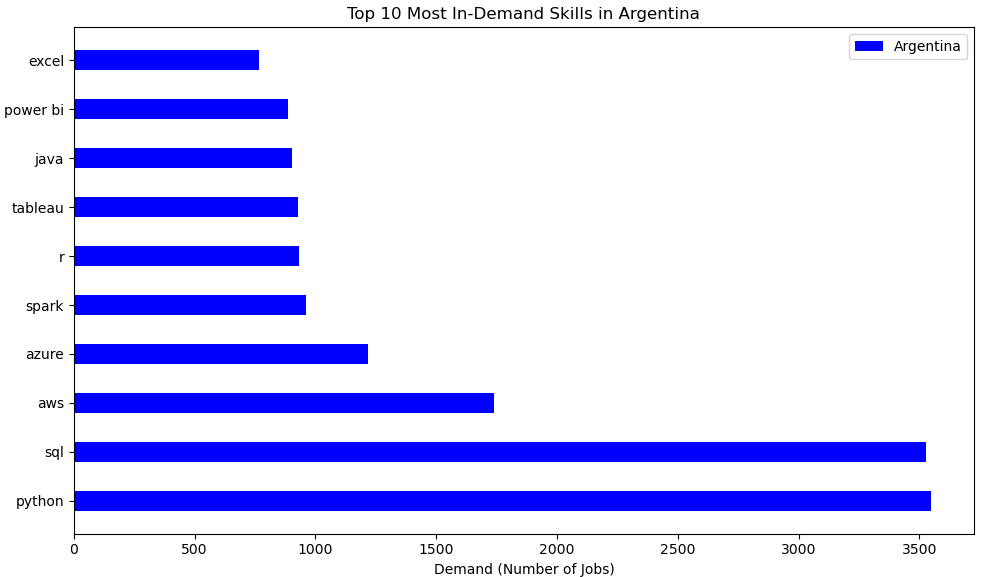
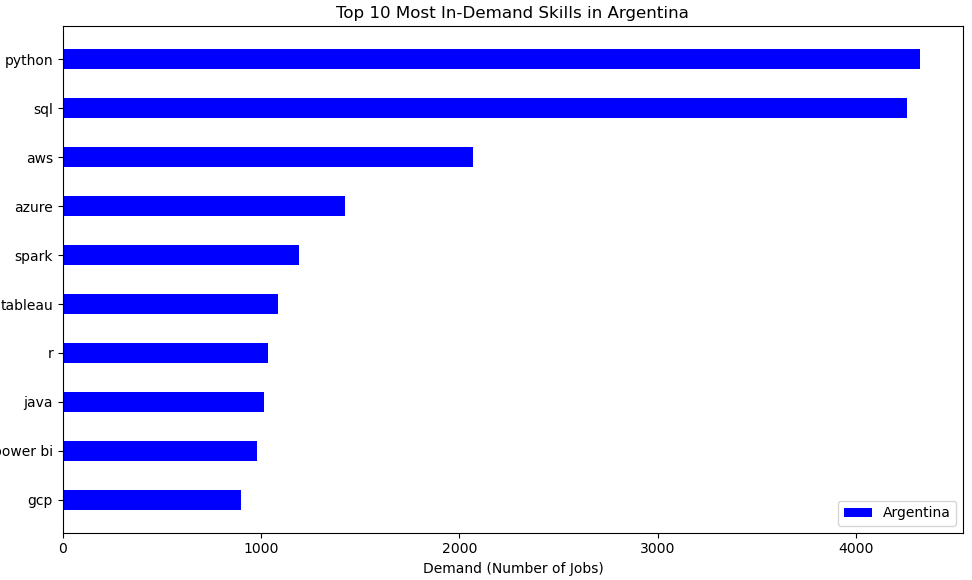
final commit1 V2

diff --git a/python/2_skills_analysis.py b/python/2_skills_analysis.py
@@ -5,7 +5,8 @@ import numpy as np
 # Top 10 Most In-Demand Skills in Argentina
 df_argentina = pd.read_csv(r'csv_files\top_demand_skills_Argentina.csv')
 
-x_argentina = np.arange(len(df_argentina))  
+x_argentina = np.arange(len(df_argentina))
+df_argentina.sort_values(by="demand", ascending=True, inplace=True)  
 
 fig, ax = plt.subplots(figsize=(10, 6))
 ax.barh(x_argentina, df_argentina['demand'], 0.4, label='Argentina', color='blue')
@@ -22,6 +23,7 @@ plt.show()
 df_worldwide = pd.read_csv(r'csv_files\top_demand_skills_worldwide.csv')
 
 x_worldwide = np.arange(len(df_worldwide))  
+df_worldwide.sort_values(by="demand", ascending=True, inplace=True)
 
 fig, ax = plt.subplots(figsize=(10, 6))
 ax.barh(x_worldwide, df_worldwide['demand'], 0.4, label='Worldwide', color='green')

diff --git a/python/1_top_paying_job_skills.py b/python/1_top_paying_job_skills.py
@@ -1,0 +1,20 @@
+import pandas as pd
+import matplotlib.pyplot as plt
+import numpy as np
+
+# Top 10 Most In-Demand Skills for the Best-Paying Jobs in Argentina
+df_demand_skills = pd.read_csv(r'csv_files\skills_demand_count_top_jobs.csv')
+
+x_demand_skills = np.arange(len(df_demand_skills))  
+df_demand_skills.sort_values(by="skills_demand_count", ascending=True, inplace=True)
+fig, ax = plt.subplots(figsize=(10, 6))
+ax.barh(x_demand_skills, df_demand_skills['skills_demand_count'], 0.4, label='Skills', color='blue')
+ax.set_xlabel('Demand (Number of Jobs)')
+ax.set_title('Top 10 Most In-Demand Skills for the Best-Paying Jobs in Argentina')
+ax.set_yticks(x_demand_skills)
+ax.set_yticklabels(df_demand_skills['skills'])
+ax.legend()
+
+
+plt.tight_layout()
+plt.show()

diff --git a/README.md b/README.md
@@ -1,5 +1,5 @@
 # Introduction
-Using a dataset with job market data focused on the IT sector, this project explores the highest-paying jobs, the most in-demand skills in the Argentine market, and compares them with global trends to assess whether the local market is up to date. Additionally, It analyzes the highest-paying skills in Argentina and which are the optimal skills in terms of demand and average salary.
+Using a dataset with job market data focused on the IT sector, this project explores the highest-paying jobs, the most in-demand skills available in the Argentine market, and compares them with global trends to assess whether the local market is up to date. Additionally, It analyzes the highest-paying skills in Argentina and which companies offer the most job opportunities in Argentina.
 
 You can check the SQL queries right here: [project_SQL folder](/project_SQL/)
 
@@ -11,7 +11,7 @@ The idea for this project comes from the need to understand the most in-demand s
 2. What skills are required for those top-paying jobs?  
 3. What skills are most in demand in Argentina, and how do they compare globally?  
 4. Which skills are associated with higher salaries?  
-5. What are the most optimal skills to learn based on demand and salary?  
+5. Which companies have the highest number of job openings in Argentina? 
 
 # Tools Used in This Project  
 
@@ -26,59 +26,65 @@ For the analysis of this data, I used several tools:
 Each query of this project answer a question to make my decision, there is how I approched each quest
 
 ### 1. What are the top-paying jobs in Argentina?
-This query retrieves the top 10 highest-paying job postings in Argentina. It selects key job details such as job ID, title, company name, location, schedule type, average annual salary, and posting date. The data is sourced from the ```job_postings_fact``` table, with company names retrieved via a **LEFT JOIN** with the ```company_dim``` table. The results are filtered to include only jobs with a non-null salary and are sorted in descending order based on salary.
+This query retrieves the top 10 highest-paying job postings in Argentina. It selects key job details such as title, company name, location and average annual salary. The data is sourced from the `job_postings_fact` table, with company names retrieved via a **LEFT JOIN** with the `company_dim` table. The results are filtered to include only jobs with a non-null salary and are sorted in descending order based on salary.
 
 ```sql
 SELECT 
-  job_postings_fact.job_id,
   job_postings_fact.job_title,
   company_dim.name AS company,
   job_postings_fact.job_location,
-  job_postings_fact.job_schedule_type,
-  job_postings_fact.salary_year_avg,
-  job_postings_fact.job_posted_date
+  job_postings_fact.salary_year_avg
 FROM job_postings_fact
 LEFT JOIN company_dim ON job_postings_fact.company_id = company_dim.company_id
 WHERE
     salary_year_avg IS NOT NULL
-    AND job_location LIKE('%Argentina%')
+    AND job_country = 'Argentina'
 ORDER BY
     salary_year_avg DESC
 LIMIT 10
+
 ```
+| Job Title                                    | Company         | Job Location                                     | Salary (Yearly) |
+|----------------------------------------------|----------------|-------------------------------------------------|----------------|
+| Director of Engineering, ML Platform        | MongoDB        | Anywhere                                       | 222000.0       |
+| Staff Data Scientist                        | MongoDB        | Anywhere                                       | 207500.0       |
+| Staff Engineer, Service Architecture        | MongoDB        | Anywhere                                       | 197500.0       |
+| Cloud Operations Engineer (3rd Shift, FedRamp) | MongoDB     | Anywhere                                       | 182500.0       |
+| Data Scientist, Growth                      | Near           | Anywhere                                       | 157000.0       |
+| Senior Data Engineer                        | MediaLab       | Argentina                                      | 147500.0       |
+| Data Engineer                               | Dialpad        | Buenos Aires, Argentina                        | 147500.0       |
+| [VMB] Senior Data Engineer                  | Software Mind  | Buenos Aires, Argentina                        | 147500.0       |
+| LAS Seeds Data Engineer                     | Syngenta Group | Vicente López, Buenos Aires Province, Argentina | 134241.0       |
+| Data Scientist Manager                      | Visa           | Buenos Aires, Argentina                        | 132500.0       |
+
 The conclusions we can draw from this query are:
-
-- **Wide Salary Range**: The highest paying jobs range from $147,500 to $98,283.
-- **Diverse Employers**: The results show 9 different companies offering high-paying jobs, indicating strong competition.
-- **Job Title Dominance**: All of the high-paying roles are in the data field, showing its dominance over other IT areas.
-
-![Top Paying Jobs](assets/top_paying_jobs.png)
-*Bar Graph Visualizing the top 10 salaries in Argentina*
+- **Wide Salary Range**: The highest paying jobs range from $222,000 to $132500 per year.
+- **Diverse Employers**: The results show 7 different companies offering high-paying jobs, indicating strong competition.
+- **Job Title Dominance**: The majority of these high-paying roles are in data-related positions (Data Scientist, Data Engineer, etc.), highlighting the strong demand for data professionals over other IT fields.
 
 ### 2. What skills are required for those top-paying jobs?
 
-The CTE (Common Table Expression) ```top_jobs``` retrieves the top 10 highest paying jobs in Argentina. The main query then retrieves the skills associated with those 10 jobs. Using an **INNER JOIN** between the tables ```skills_job_dim```, ```top_jobs```, and ```skills_dim```, I obtained the skills associated with each job, and then I filtered the results to only include those in Argentina.
+The CTE (Common Table Expression) `top_jobs` retrieves the top 10 highest paying jobs in Argentina. The main query then retrieves the skills associated with those 10 jobs. Using an **INNER JOIN** between the tables `skills_job_dim`, `top_jobs`, and `skills_dim`, I obtained the skills associated with each job, and then I filtered the results to only include those in Argentina.
+The second query is an auxiliary query used to generate a CSV file for creating a bar chart of the most in-demand skills.
 
 ```sql
 WITH top_jobs AS(
     SELECT 
-        job_postings_fact.job_id,
-        job_postings_fact.job_title,
-        company_dim.name AS company,
-        job_postings_fact.job_location,
-        job_postings_fact.job_schedule_type,
-        job_postings_fact.salary_year_avg,
-        job_postings_fact.job_posted_date
+    job_postings_fact.job_id,
+    job_postings_fact.job_title,
+    company_dim.name AS company,
+    job_postings_fact.job_location,
+    job_postings_fact.salary_year_avg
     FROM job_postings_fact
     LEFT JOIN company_dim ON job_postings_fact.company_id = company_dim.company_id
     WHERE
         salary_year_avg IS NOT NULL
-        AND job_location LIKE('%Argentina%')
+        AND job_country = 'Argentina'
     ORDER BY
         salary_year_avg DESC
     LIMIT 10
 )
-SELECT 
+SELECT
     top_jobs.*,
     skills_dim.skills
 FROM top_jobs
@@ -86,13 +92,33 @@ INNER JOIN skills_job_dim ON top_jobs.job_id = skills_job_dim.job_id
 INNER JOIN skills_dim ON skills_job_dim.skill_id = skills_dim.skill_id
 ORDER BY
     top_jobs.salary_year_avg DESC
+--Auxiliary query
+SELECT
+    COUNT(skills_dim.skill_id) as skills_demand_count,
+    skills_dim.skills
+FROM top_jobs
+INNER JOIN skills_job_dim ON top_jobs.job_id = skills_job_dim.job_id 
+INNER JOIN skills_dim ON skills_job_dim.skill_id = skills_dim.skill_id
+GROUP BY
+    skills_dim.skills
+ORDER BY
+    skills_demand_count DESC
+LIMIT 10
+
 ```
+
+![Top Most In-Demand Skills for the Best-Payings Jobs In Argentina](assets/top_payings_job_skills.png)
+*Bar Graph Visualizing the Top 10 Most In-Demand Skills for the Best-Payings Jobs In Argentina*
+
 The conclusions we can draw from this query are:
-- The skills observed in the results include SQL, Excel, Tableau, Python, R, Linux, and others. The majority of these are tools or skills used by Data Analysts, Data Scientists, Machine Learning professionals, and all jobs related to the Data field. This makes sense, as we found that the top-paying jobs are all in the Data Area.
+- **Python and MongoDB** are the most in-demand skills, required in 8 out of the 10 top-paying jobs.
+- **GCP, Java, and Spark** follow closely, each appearing in 4 job postings.
+- **Scala, Kubernetes, SQL, and AWS** are required in 3 jobs each.
+- **Databricks** is the least common among the top 10, appearing in only 2 job postings.
 
 ### 3. What skills are most in demand in Argentina, and how do they compare globally?
 
-With this query, we will obtain the top 10 most in-demand skills for jobs in Argentina. Using an **INNER JOIN** between the tables ```skills_job_dim```, ```skills_job_dim```, and ```skills_dim```, we retrieve the skills associated with each job, then sort them by demand.
+With this query, we will obtain the top 10 most in-demand skills for jobs in Argentina. Using an **INNER JOIN** between the tables `skills_job_dim`, `skills_job_dim`, and `skills_dim`, we retrieve the skills associated with each job, then sort them by demand.
 
 ```sql
 SELECT 
@@ -102,7 +128,7 @@ FROM job_postings_fact
 INNER JOIN skills_job_dim ON skills_job_dim.job_id = job_postings_fact.job_id
 INNER JOIN skills_dim ON skills_job_dim.skill_id = skills_dim.skill_id
 WHERE
-    job_location LIKE('%Argentina%')
+    job_country ='Argentina'
 GROUP BY
     skills
 ORDER BY
@@ -115,7 +141,6 @@ SELECT
     skills_dim.skills,
     COUNT(job_postings_fact.job_id) as demand
 FROM job_postings_fact
-
 INNER JOIN skills_job_dim ON skills_job_dim.job_id = job_postings_fact.job_id
 INNER JOIN skills_dim ON skills_job_dim.skill_id = skills_dim.skill_id
 GROUP BY
@@ -126,10 +151,10 @@ LIMIT 10
 ```
 After analising both list we can come to the conclusion that
 
-- **Market Updates**: The most in-demand skills in Argentina are the same as those in the global market. This is a good sign that the Argentine job market is adopting top technologies.
+- **Market Updates**: The most in-demand skills in Argentina are the same as those in the global market except for GCP which is in Argentina's top 10, while Excel holds that spot worldwide. This is a positive sign that the Argentine job market is aligning with top global technologies.
 - **Tools for Analysis and Visualization**: The most in-demand tools include Excel, Power BI, and Tableau.
 - **Data Analyst Languages**: The top two most in-demand skills are SQL and Python, both essential for data-related tasks. R is also commonly used.
-- **Big Data and Cloud**: Tools like Apache Spark and Azure are in high demand.
+- **Big Data and Cloud**: Tools like Apache Spark, Azure and GCP are in high demand.
 - **Development**: We can conclude that most in-demand tools are focused on data analysis, except for Java.
 
 ![Top Demand Skills Argentina](assets/top_demand_skills_argentina.png)
@@ -140,7 +165,7 @@ After analising both list we can come to the conclusion that
 
 ### 4. Which skills are associated with higher salaries?
 
-This query identifies the skills associated with the highest salaries. Using an **INNER JOIN** between the tables ```job_postings_fact```, ```skills_job_dim```, and ```skills_dim```, it retrieves the skills linked to each job, then groups them by skill and sorts them by average salary.
+This query identifies the skills associated with the highest salaries. Using an **INNER JOIN** between the tables `job_postings_fact`, `skills_job_dim`, and `skills_dim`, it retrieves the skills linked to each job, then groups them by skill and sorts them by average salary.
 
 ```sql
 SELECT 
@@ -150,7 +175,7 @@ FROM job_postings_fact
 INNER JOIN skills_job_dim ON job_postings_fact.job_id = skills_job_dim.job_id
 INNER JOIN skills_dim ON skills_job_dim.skill_id = skills_dim.skill_id
 WHERE
-    job_postings_fact.job_location LIKE('%Argentina%')
+    job_postings_fact.job_country = 'Argentina'
     AND job_postings_fact.salary_year_avg IS NOT NULL
 GROUP BY
     skills_dim.skills
@@ -158,86 +183,65 @@ ORDER BY
     avg_salary DESC
 LIMIT 10
 ```
-| Skill     | Average Salary ($) |
-|-----------|----------------------|
-| GitLab    | 147,500              |
-| Golang    | 147,500              |
-| GDPR      | 147,500              |
-| Scala     | 143,080              |
-| Alteryx   | 134,241              |
-| Jenkins   | 126,675              |
-| Kubernetes| 123,201              |
-| Linux     | 122,892              |
-| Flow      | 122,722              |
-| Shell     | 120,000              |
+| Skill      | Average Salary (USD) |
+|------------|---------------------|
+| C++        | 197,500             |
+| Go         | 182,500             |
+| Splunk     | 182,500             |
+| MongoDB    | 181,255             |
+| HTML       | 157,000             |
+| GitLab     | 147,500             |
+| GDPR       | 147,500             |
+| Scala      | 143,080             |
+| Linux      | 142,761             |
+| Kubernetes | 135,060             |
 Here is a summary of the highest-paying skills in the Argentine job market:
 
-- **Software Development & DevOps**: GitLab, Jenkins, Golang, Scala
-- **Infrastructure & Cloud Computing**: Kubernetes, Linux, Shell
-- **Data Analysis & Automation**: Alteryx, Flow
-- **Security & Regulation**: GDPR
+
+- **Programming Language**: C++, Go, Scala, HTML.
+- **Databases & Big Data**: MongoDB, Splunk.
+- **Infrastructure & DevOps**: Linux, Kubernetes, GitLab.
+- **Security & Compliance**: GDPR.
 
 
 
-### 5. What are the most optimal skills to learn based on demand and salary?
+### 5. Which companies have the highest number of job openings in Argentina?
 
-This query shows the most in-demand and highest-paying skills. Using an **INNER JOIN** between the tables ```job_postings_fact```, ```skills_job_dim```, and ```skills_dim```, it retrieves the skills with at least 10 job offers, then sorts them by average salary and demand.
+This query shows which companies have the highest number of job openings in Argentina. Using an **INNER JOIN** between the tables `job_postings_fact` and `company_dim`, it retrieves the companies with the most job postings in Argentina. The results are then grouped by company name and ordered by the number of job postings in descending order.
 
 ```sql
 SELECT
-    skills_dim.skills,
-    COUNT(skills_job_dim.job_id) as demand,
-    ROUND (AVG(job_postings_fact.salary_year_avg)) as avg_salary
+    company_dim.name AS company_name,
+    COUNT(job_postings_fact.job_id) AS job_count
 FROM job_postings_fact
-INNER JOIN skills_job_dim ON job_postings_fact.job_id = skills_job_dim.job_id
-INNER JOIN skills_dim ON skills_job_dim.skill_id = skills_dim.skill_id
+INNER JOIN company_dim ON job_postings_fact.company_id = company_dim.company_id
 WHERE
-    job_postings_fact.salary_year_avg IS NOT NULL
+    job_postings_fact.job_country = 'Argentina'
 GROUP BY
-    skills_dim.skills
-HAVING
-    COUNT(skills_job_dim.job_id) > 10
+    company_dim.name
 ORDER BY
-    avg_salary DESC,
-    demand DESC
-LIMIT 25
+    job_count DESC
+LIMIT 10
 ```
- Skill          | Demand | Average Salary (ARS) |
-|---------------|--------|----------------------|
-| Mongo         | 262    | 170,715              |
-| dplyr         | 19     | 160,667              |
-| Node          | 65     | 154,408              |
-| Cassandra     | 530    | 154,124              |
-| Watson        | 31     | 152,844              |
-| RShiny        | 29     | 151,611              |
-| Hugging Face  | 37     | 148,648              |
-| Neo4j         | 123    | 147,708              |
-| Scala         | 1,912  | 145,120              |
-| Kafka         | 1,642  | 144,754              |
-| PyTorch       | 1,081  | 144,470              |
-| MXNet         | 50     | 143,695              |
-| Theano        | 37     | 143,404              |
-| Shell         | 731    | 143,370              |
-| Golang        | 109    | 143,139              |
-| Airflow       | 1,506  | 142,386              |
-| TensorFlow    | 1,225  | 142,370              |
-| Spark         | 4,025  | 141,734              |
-| Redshift      | 1,520  | 140,792              |
-| Airtable      | 22     | 140,615              |
-| Ruby on Rails | 18     | 140,130              |
-| Scikit-learn  | 688    | 139,603              |
-| DynamoDB      | 220    | 139,548              |
-| Rust          | 71     | 139,349              |
-| Clojure       | 12     | 139,342              |
+| Company Name             | Job Count |
+|--------------------------|----------|
+| Emprego                  | 3071     |
+| Listopro                 | 349      |
+| Accenture                | 139      |
+| Web:                     | 97       |
+| Confidencial             | 89       |
+| Fusemachines             | 58       |
+| IT Scout                 | 57       |
+| Turing                   | 57       |
+| AgileEngine              | 39       |
+| JPMorgan Chase & Co.     | 36       |
 
 Here is a summary of the most optimal skills in the job market:
 
-- **Software Development & Backend**: Node, Mongo, Cassandra, Scala, Golang, Ruby on Rails, 4 out of these 6 technologies are in the top 10 highest-paying skills, with Cassandra having the most demand and Mongo being the highest-paying.
-- **Big Data & Data Analysis**: Spark, Redshift, Airflow, DynamoDB, Hugging Face, Scikit-learn, TensorFlow, PyTorch, MXNet, Theano, RShiny, The data analysis field has the most skills in the top 25 based on demand and salary, with 12 skills listed.
-- **Automation & Orchestration**: Shell, Airflow.
-- **Artificial Intelligence Technologies**: Watson is the 5th highest-paying skill and the only technology in its field.
-- **Frontend Technologies & Visualization**: dplyr, Airtable
-- **Networking and Distributed Services**: Kafka, Neo4j, Clojure.
+- **Clear Dominance**: Emprego dominates the Argentine job market with 3,071 job offers, a significantly higher number than the second company.
+- **Balanced market**: Aside from Emprego, the other companies have a relatively similar number of job openings, showing a more balanced distribution.
+- **Different types of companies**: The list includes IT consulting firms like Accenture and AgileEngine, job platforms like Emprego and Listopro, and multinational companies like JPMorgan Chase & Co.
+
 
 # What I Learned
 
@@ -249,11 +253,11 @@ Here is a summary of the most optimal skills in the job market:
 # Conclusions
 
 ### Insights
-1. **Top-Paying Jobs in Argentina**: The highest-paying jobs in Argentina are in the Data field, with the highest salary reaching $147,500.
+1. **Top-Paying Jobs in Argentina**: The highest-paying jobs in Argentina are in the Data field, with the highest salary reaching $222,000.
 2. **Skills for High-Paying Jobs in Argentina**: High-paying jobs require advanced knowledge of a wide range of tools related to Data Analysis, Machine Learning, and Data Science.
 3. **Most In-Demand Skills**: SQL and Python are the most in-demand skills both in Argentina and worldwide. These are the most valuable skills to learn in the market.
-4. **Skills with the Highest Salaries in Argentina**: Specialized skills such as GitLab and Golang in Software Development & DevOps offer the highest salaries in the Argentine job market.
-5. **Optimal Skills for Job Market Value**: SQL leads in demand and offers a high average salary, making it one of the most valuable skills to learn.
+4. **Skills with the Highest Salaries in Argentina**: Programming languages such as C++ and Go offer the highest salaries in the Argentine job market.
+5. **Company with the Most Job Opportunities in Argentina**: Emprego has the highest number of job postings, making it a key company to follow when searching for job opportunities.
 
 ### Closing Thoughts
 
